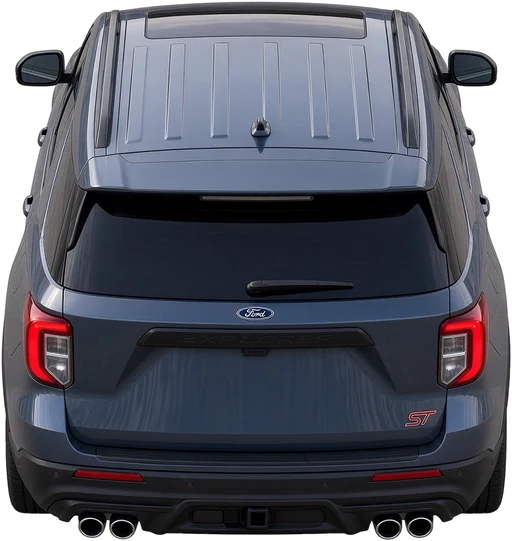
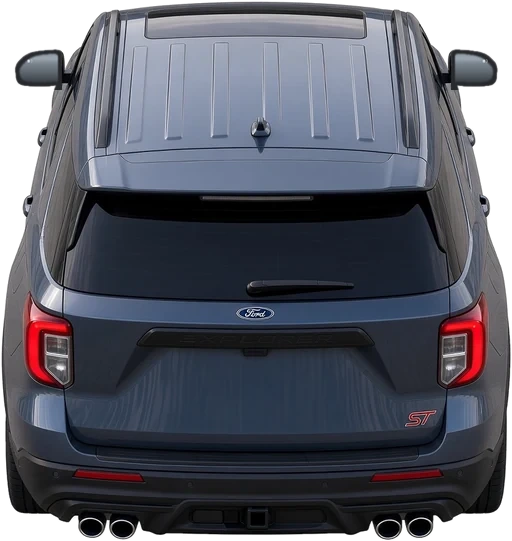
Explorer (outside view): clean door mirrors like the owner's photo
Owner: "make the mirrors on the outside of the car like this, make them look clean" (a photo
of the real Explorer mirror), meaning the car you see from outside. That car is the cut-out
photo img/explorer-rear.webp, so its two door mirrors are repainted in the picture: the
outline kept (it already has the big curve at the outer top corner), a thicker dark charcoal
frame, and clean glass — a smooth reflection of sky to road instead of dark streaks — with
the small blind-spot symbol near the outer top corner. The arms and the rest of the car are
untouched. Cache-busted (?v=2).

Claude-Session: https://claude.ai/code/session_01NeKEH8vGuJCkyAD35CQWFd

Changed region(s): [[0.875, 0.0887, 0.9688, 0.1774], [0.0312, 0.0887, 0.125, 0.1774]]

diff --git a/js/game.js b/js/game.js
@@ -355,7 +355,7 @@ const suv=new THREE.Group(); while(body.children.length) suv.add(body.children[0
 //   sound engine in js/enh/sound.js; vmax top speed in m/s (speedometer units) — cars without one keep the old behaviour
 //   model a .glb 3D model (metres, front +z, ground at y 0, wheels as nodes named Wheel_*) drawn instead of a photo
 const CARS={
-  explorer:{name:'Ford Explorer ST',paint:0x3e4855,img:'img/explorer-rear.webp?v=1',W:2.35,piv:.38,glow:[[.088,.37],[.912,.37]],gw:.26,gh:.3,lamp:.68,front:2.4,sound:'ecoboost30',perf:{t60:5.2,top:143,a0:7.8},
+  explorer:{name:'Ford Explorer ST',paint:0x3e4855,img:'img/explorer-rear.webp?v=2',W:2.35,piv:.38,glow:[[.088,.37],[.912,.37]],gw:.26,gh:.3,lamp:.68,front:2.4,sound:'ecoboost30',perf:{t60:5.2,top:143,a0:7.8},
     fimg:'img/explorer-front.webp?v=1',fW:4.4,fpiv:[.525,.141]},     // front: the owner's Explorer ST photo, front-left three-quarter
   // AMC Javelin (the owner's photo): one full-width tail-light bar low on the tail, reversing light in the middle
   javelin:{name:'AMC Javelin',paint:0x141518,img:'img/javelin-rear.webp?v=1',W:1.95,piv:.40,glow:[[.15,.2],[.27,.2],[.38,.2],[.62,.2],[.73,.2],[.85,.2]],gw:.15,gh:.12,lamp:.62,front:2.44,sound:'amc401',vmax:120/2.237,perf:{t60:6.8,top:120,a0:6.0}},   // top speed 120 mph

diff --git a/index.html b/index.html
@@ -73,7 +73,7 @@
 </div>
 <script src="js/errors.js?v=3"></script>
 <script src="js/update.js?v=4"></script>
-<script src="js/game.js?v=61"></script>
+<script src="js/game.js?v=62"></script>
 <script src="js/enh/core.js?v=4"></script>
 <script src="js/enh/roads.js?v=10"></script>
 <script src="js/enh/signs.js?v=16"></script>
